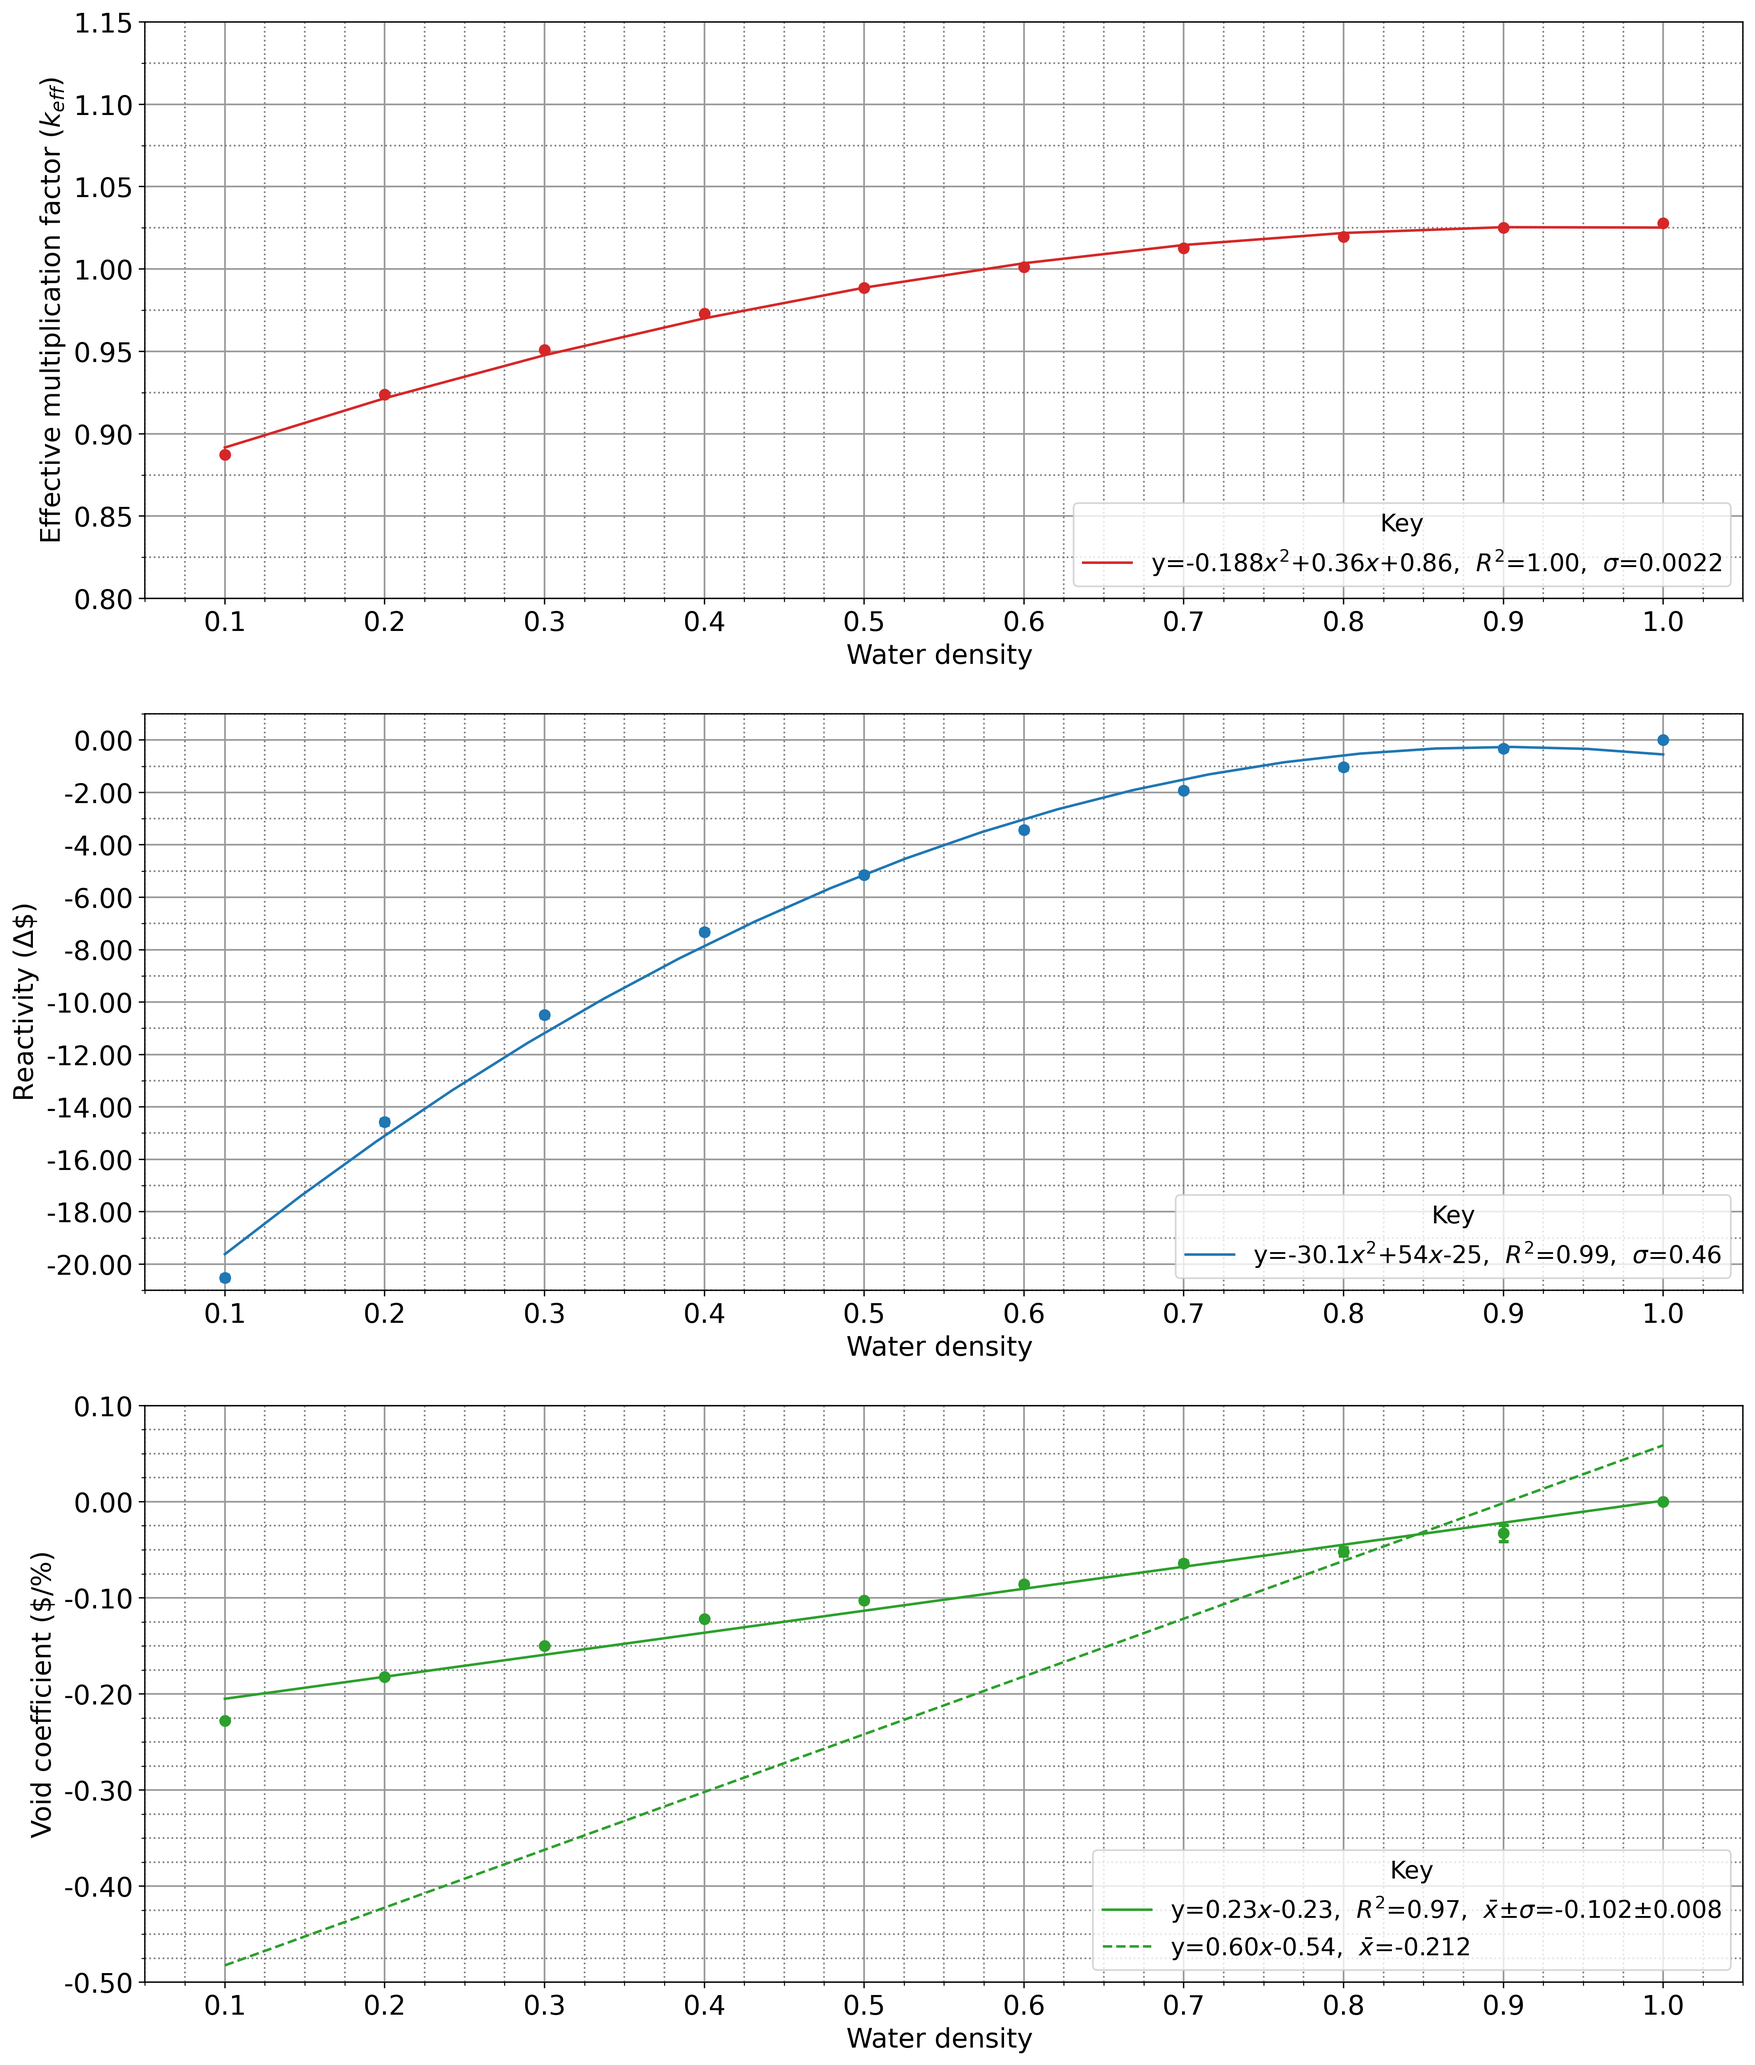
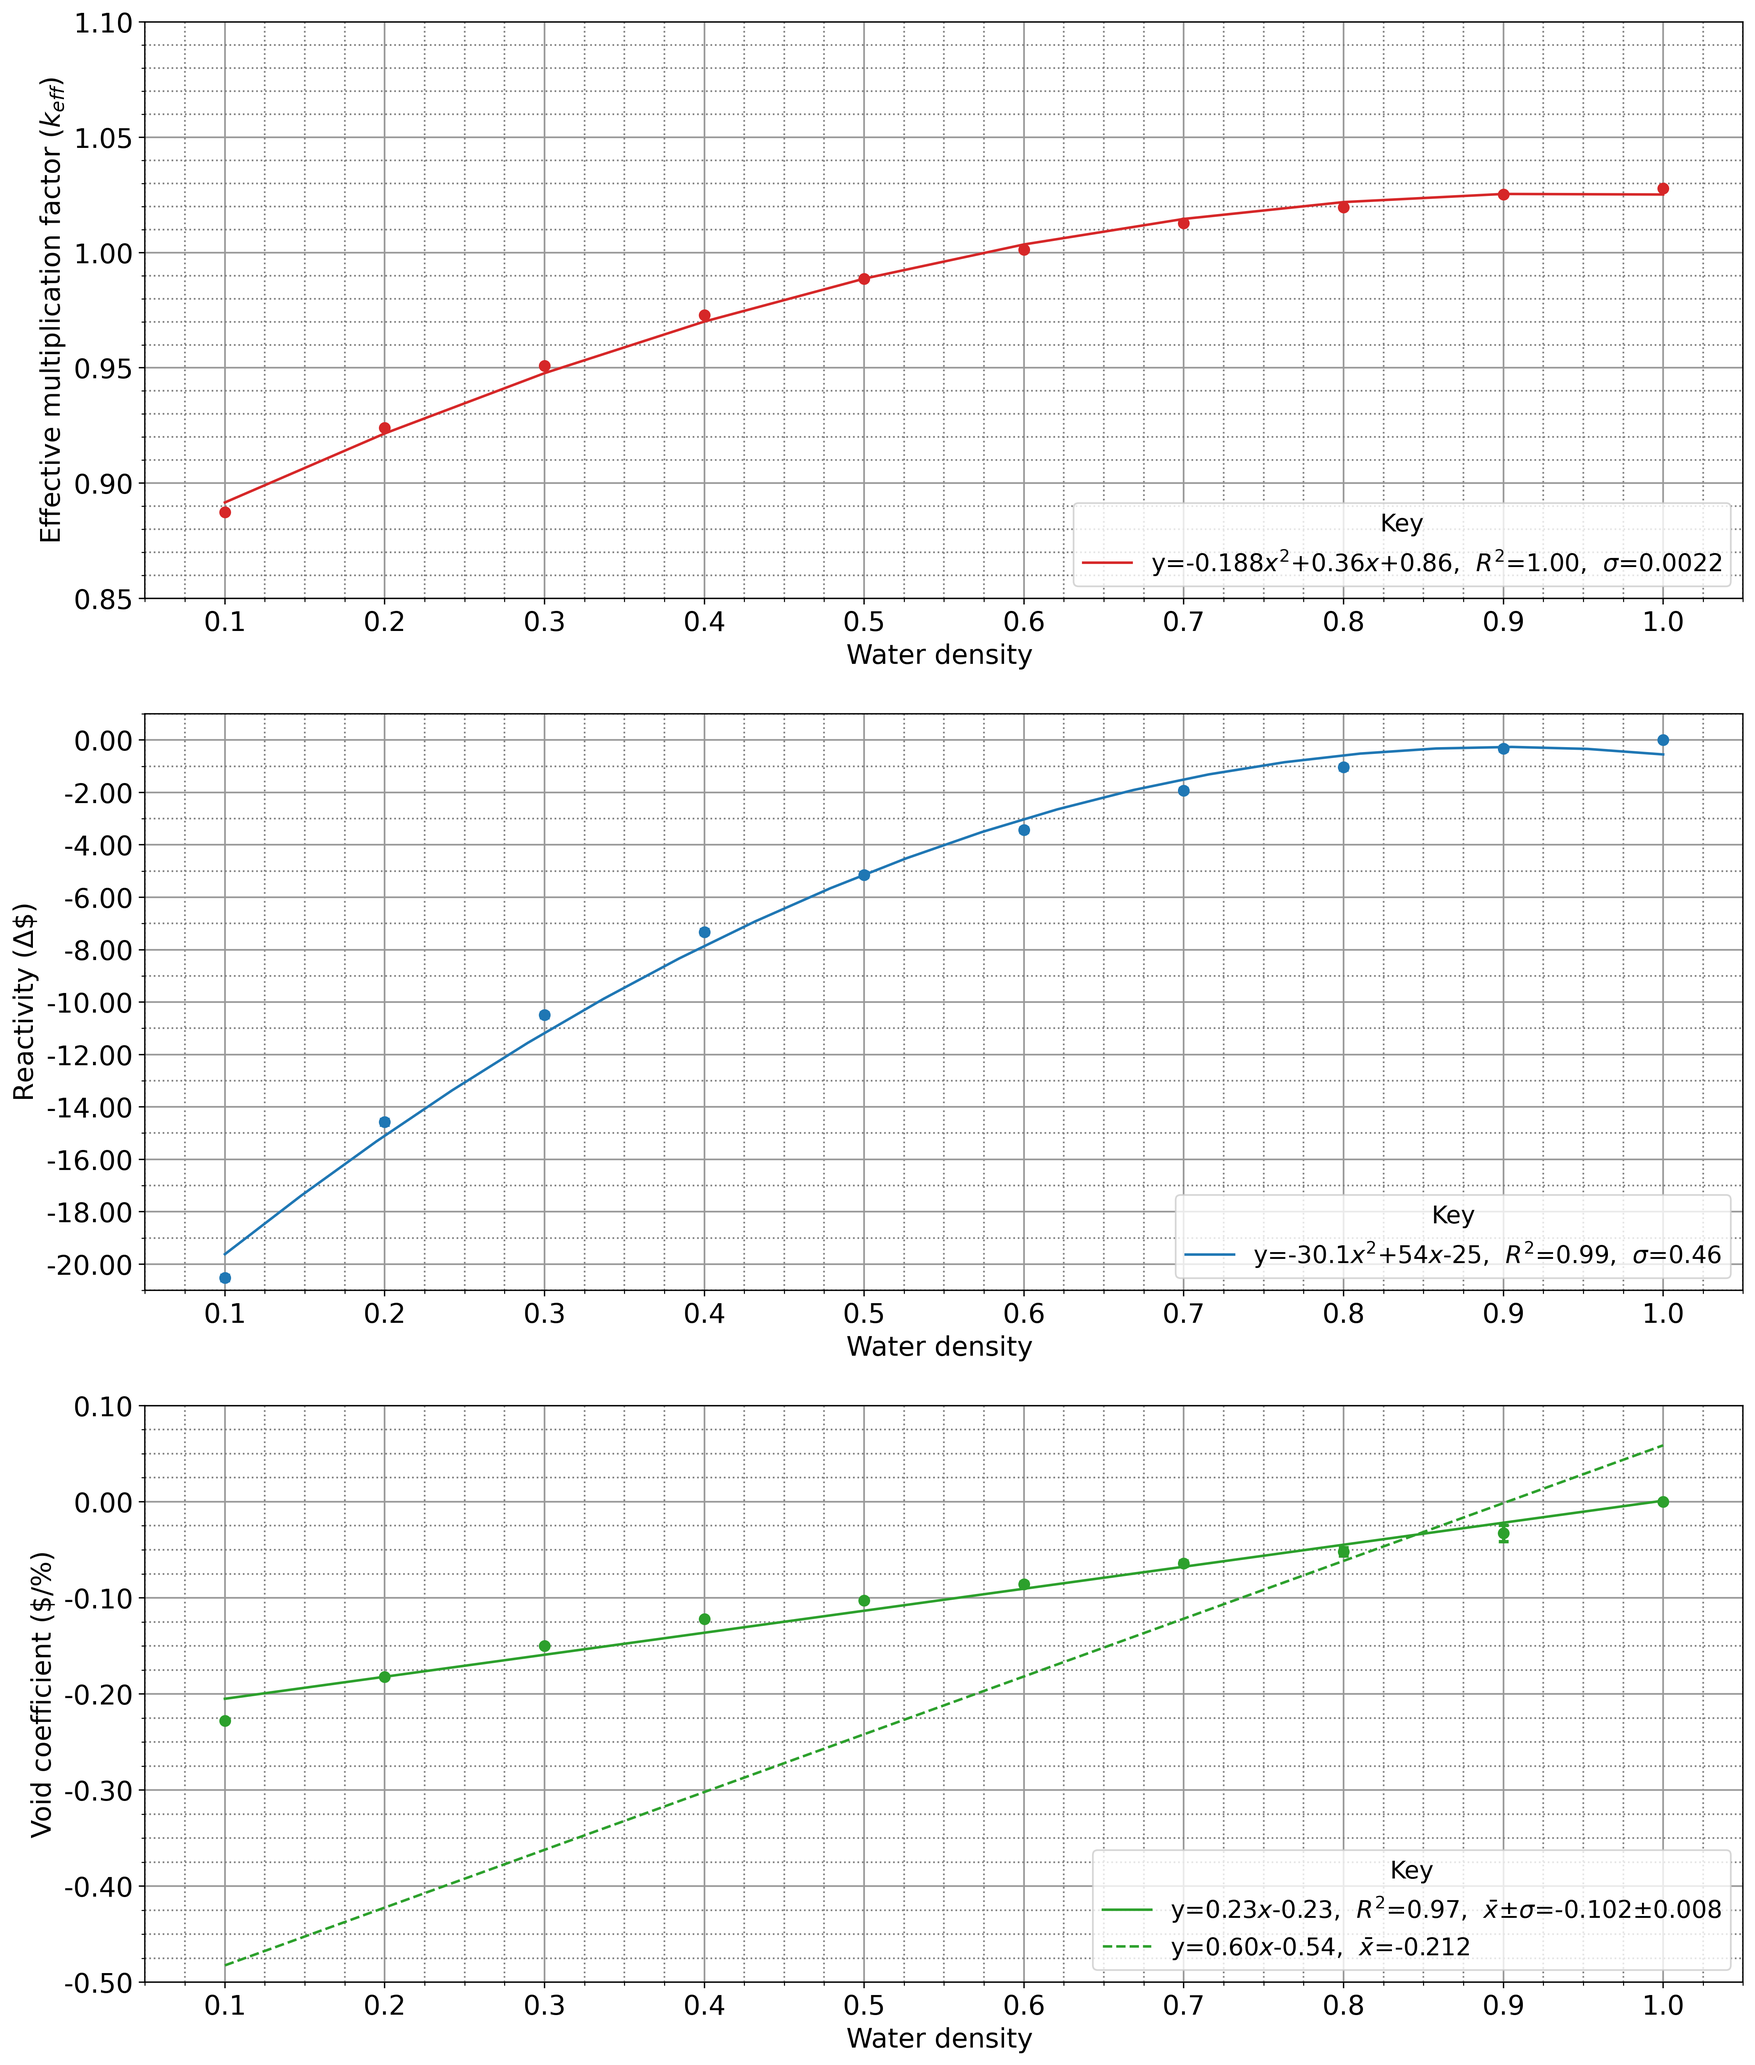
edited keff y axis

diff --git a/void.py b/void.py
@@ -150,8 +150,8 @@ def plot_data_void(keff_csv_name, rho_csv_name, params_csv_name, figure_name, rh
         ax_x_min, ax_x_max = 0, 2
         ax_x_major_ticks_interval, ax_x_minor_ticks_interval = 0.1, 0.05
 
-    ax_keff_y_min, ax_keff_y_max = 0.8, 1.15
-    ax_keff_y_major_ticks_interval, ax_keff_y_minor_ticks_interval = 0.05, 0.025
+    ax_keff_y_min, ax_keff_y_max = 0.85, 1.10
+    ax_keff_y_major_ticks_interval, ax_keff_y_minor_ticks_interval = 0.05, 0.01
 
     ax_rho_y_min, ax_rho_y_max = -16, 1
     ax_rho_y_major_ticks_interval, ax_rho_y_minor_ticks_interval = 2, 1
@@ -208,7 +208,7 @@ def plot_data_void(keff_csv_name, rho_csv_name, params_csv_name, figure_name, rh
                 label=r'y=-{:.1f}$x^2$+{:.0f}$x${:.0f},  $R^2$={:.2f},  $\sigma$={:.2f}'.format(
                     np.abs(eq_rho[0]), eq_rho[1], eq_rho[2], r2_rho, sd_rho))
 
-    # Plot data for void
+    # Plot data for coef_void
     y_void, y_void_unc = [], []
     for water_density in x:
         if rho_or_dollars == 'rho': y_void.append(params_df.loc[water_density,'coef rho']), y_void_unc.append(params_df.loc[water_density, 'coef rho unc'])

diff --git a/mcnp_funcs.py b/mcnp_funcs.py
@@ -58,7 +58,7 @@ def initialize_rane():
 
 
 def find_base_file(filepath):
-    # filepath: string with current folder directory name, e.g. "C:/MCNP6/facilities/reed/rodcal-mcnp"
+    # filepath: string with current folder directory name, e.g. "C:/MCNP6/facilities/reed/rodcal_mcnp"
     base_input_name = None
     while base_input_name == None:
         potential_base_input_name = input('Input base MCNP file name, including extension: ')
